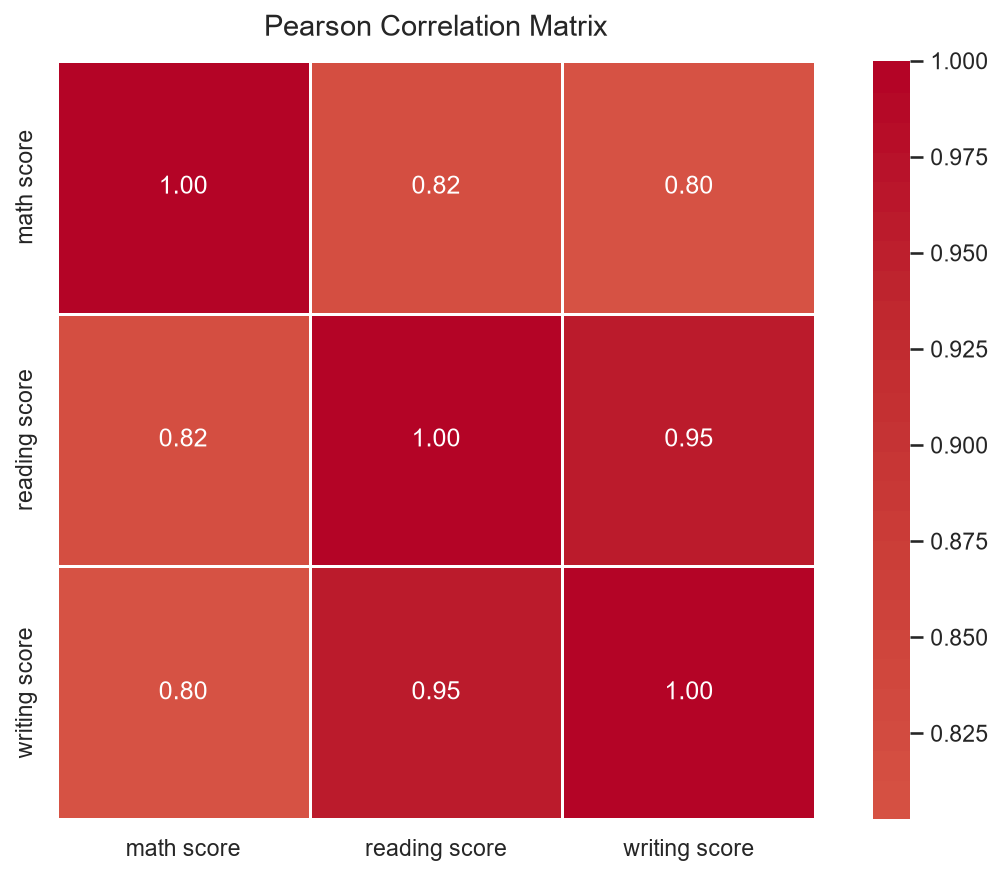
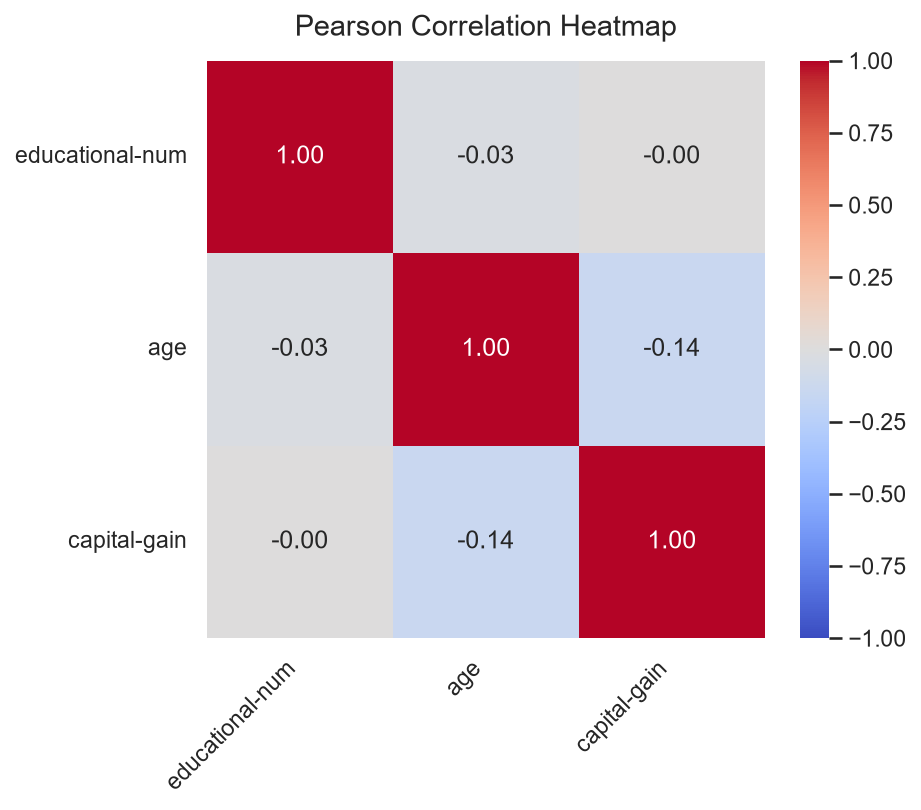
feat(correlation): add cross-type redundant duplicate pair detection using correlation ratio eta (Rubric Step 4 - 6pts)

diff --git a/autoeda_core/tools.py b/autoeda_core/tools.py
@@ -994,6 +994,31 @@ def _cramers_v(x, y):
     return float(np.sqrt(phi2corr / min_dim)) if min_dim > 0 else 0.0
 
 
+def _correlation_ratio(categories, measurements):
+    """
+    Calculates Correlation Ratio (eta) between a categorical and numeric feature.
+    eta = sqrt( SS_between / SS_total )
+    Returns 1.0 for perfect deterministic/ordinal duplicate encodings (e.g. education vs educational-num).
+    """
+    try:
+        clean_data = pd.DataFrame({'cat': categories, 'num': measurements}).dropna()
+        if len(clean_data) < 5 or clean_data['cat'].nunique() <= 1:
+            return 0.0
+        
+        overall_mean = clean_data['num'].mean()
+        total_ss = np.sum((clean_data['num'] - overall_mean) ** 2)
+        if total_ss == 0:
+            return 0.0
+        
+        category_means = clean_data.groupby('cat')['num'].agg(['mean', 'count'])
+        between_ss = np.sum(category_means['count'] * ((category_means['mean'] - overall_mean) ** 2))
+        
+        eta = np.sqrt(between_ss / total_ss)
+        return float(np.clip(eta, 0.0, 1.0))
+    except Exception:
+        return 0.0
+
+
 def plot_correlation_matrix(
     df: pd.DataFrame,
     save_path: str = "correlation_matrix.png",
@@ -1002,6 +1027,7 @@ def plot_correlation_matrix(
 ) -> Dict[str, Any]:
     """
     Generates a correlation matrix heatmap for numeric features and association matrix for categorical features.
+    Detects cross-type redundant duplicate pairs (e.g. education vs educational-num) using Correlation Ratio (eta).
     Excludes non-distributional columns (IDs, coordinates, timestamps).
     """
     plt.close()
@@ -1054,10 +1080,25 @@ def plot_correlation_matrix(
                         "cramers_v": round(v, 4)
                     })
 
+    # Cross-type redundancy detection (Categorical vs Numeric pairs, e.g. education vs educational-num)
+    cross_type_redundant_pairs = []
+    for c_col in cat_cols:
+        for n_col in numeric_cols:
+            if c_col == n_col: continue
+            eta_val = _correlation_ratio(df[c_col], df[n_col])
+            if eta_val >= 0.85:
+                cross_type_redundant_pairs.append({
+                    "categorical_feature": c_col,
+                    "numeric_feature": n_col,
+                    "correlation_ratio_eta": round(eta_val, 4),
+                    "interpretation": f"High cross-type redundancy between '{c_col}' and '{n_col}' (Eta = {eta_val:.4f})."
+                })
+
     return {
         "correlation_heatmap_saved": full_save_path,
         "high_correlation_pairs": high_corr_pairs,
-        "categorical_associations": cat_assoc
+        "categorical_associations": cat_assoc,
+        "cross_type_redundant_pairs": cross_type_redundant_pairs
     }
 
 
